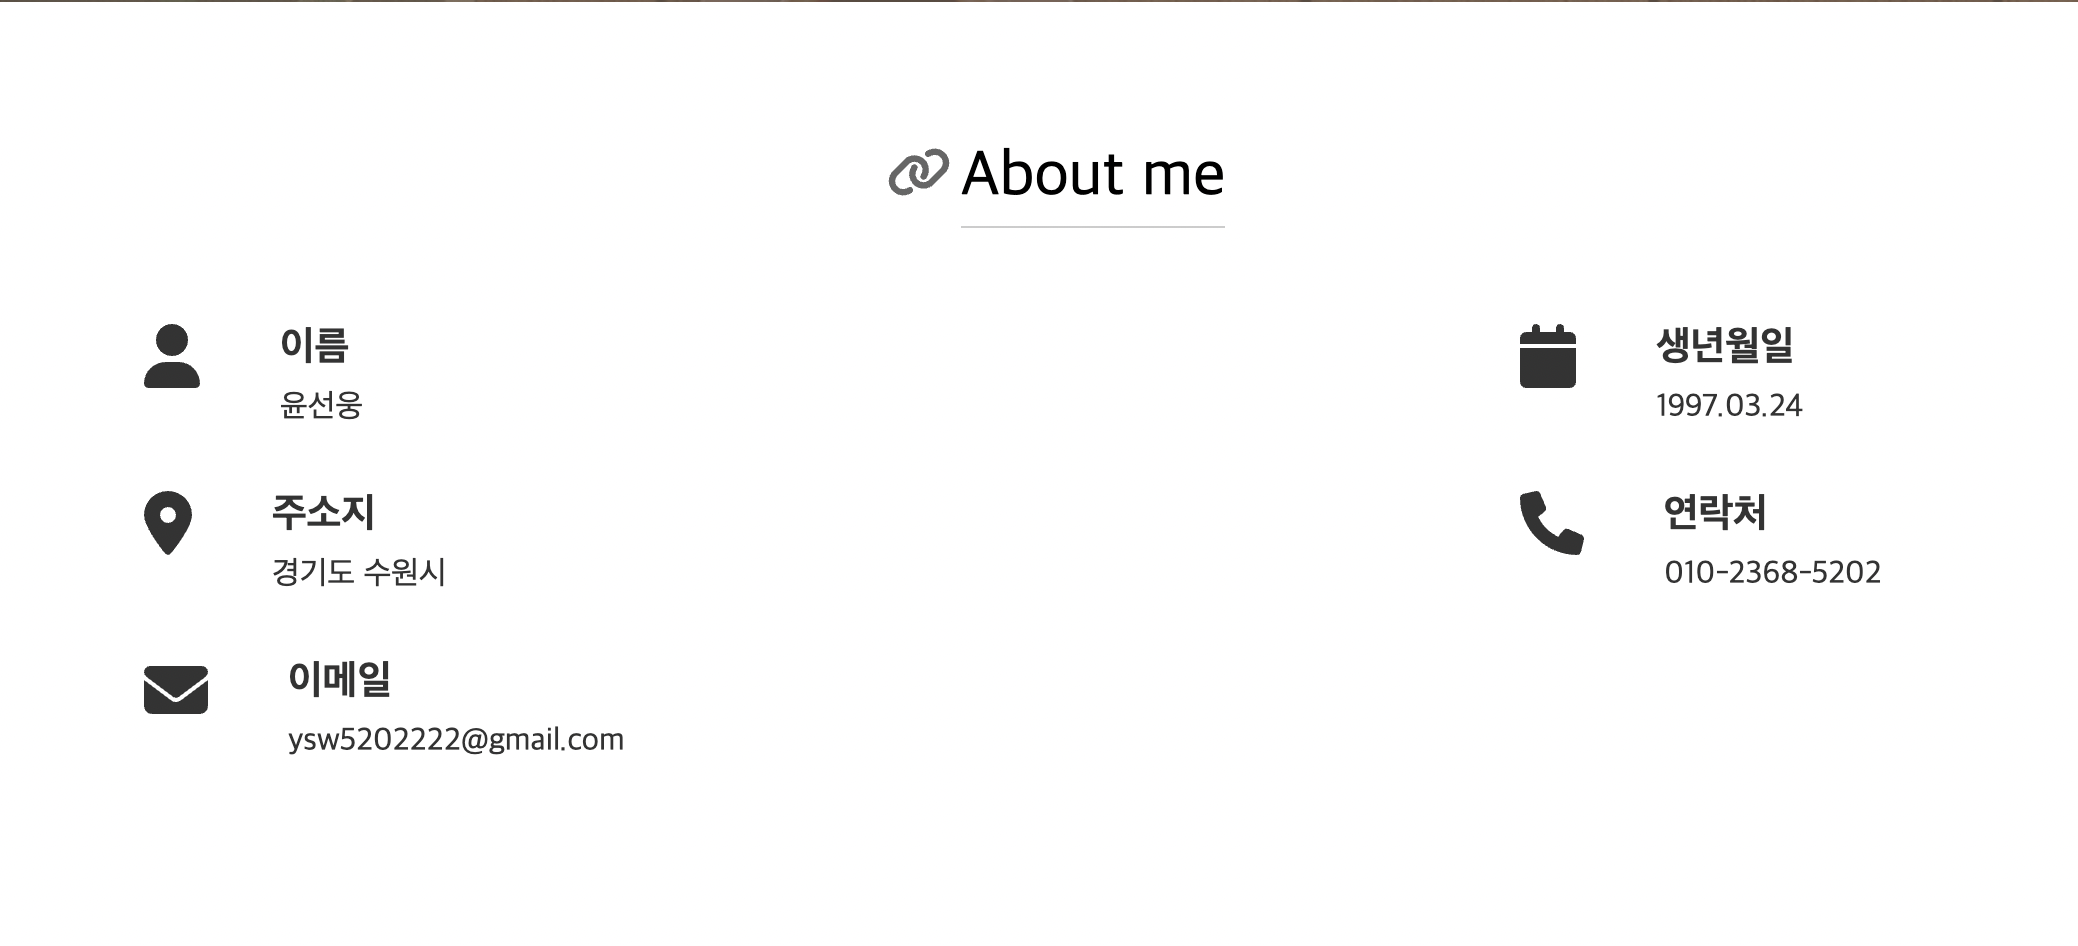
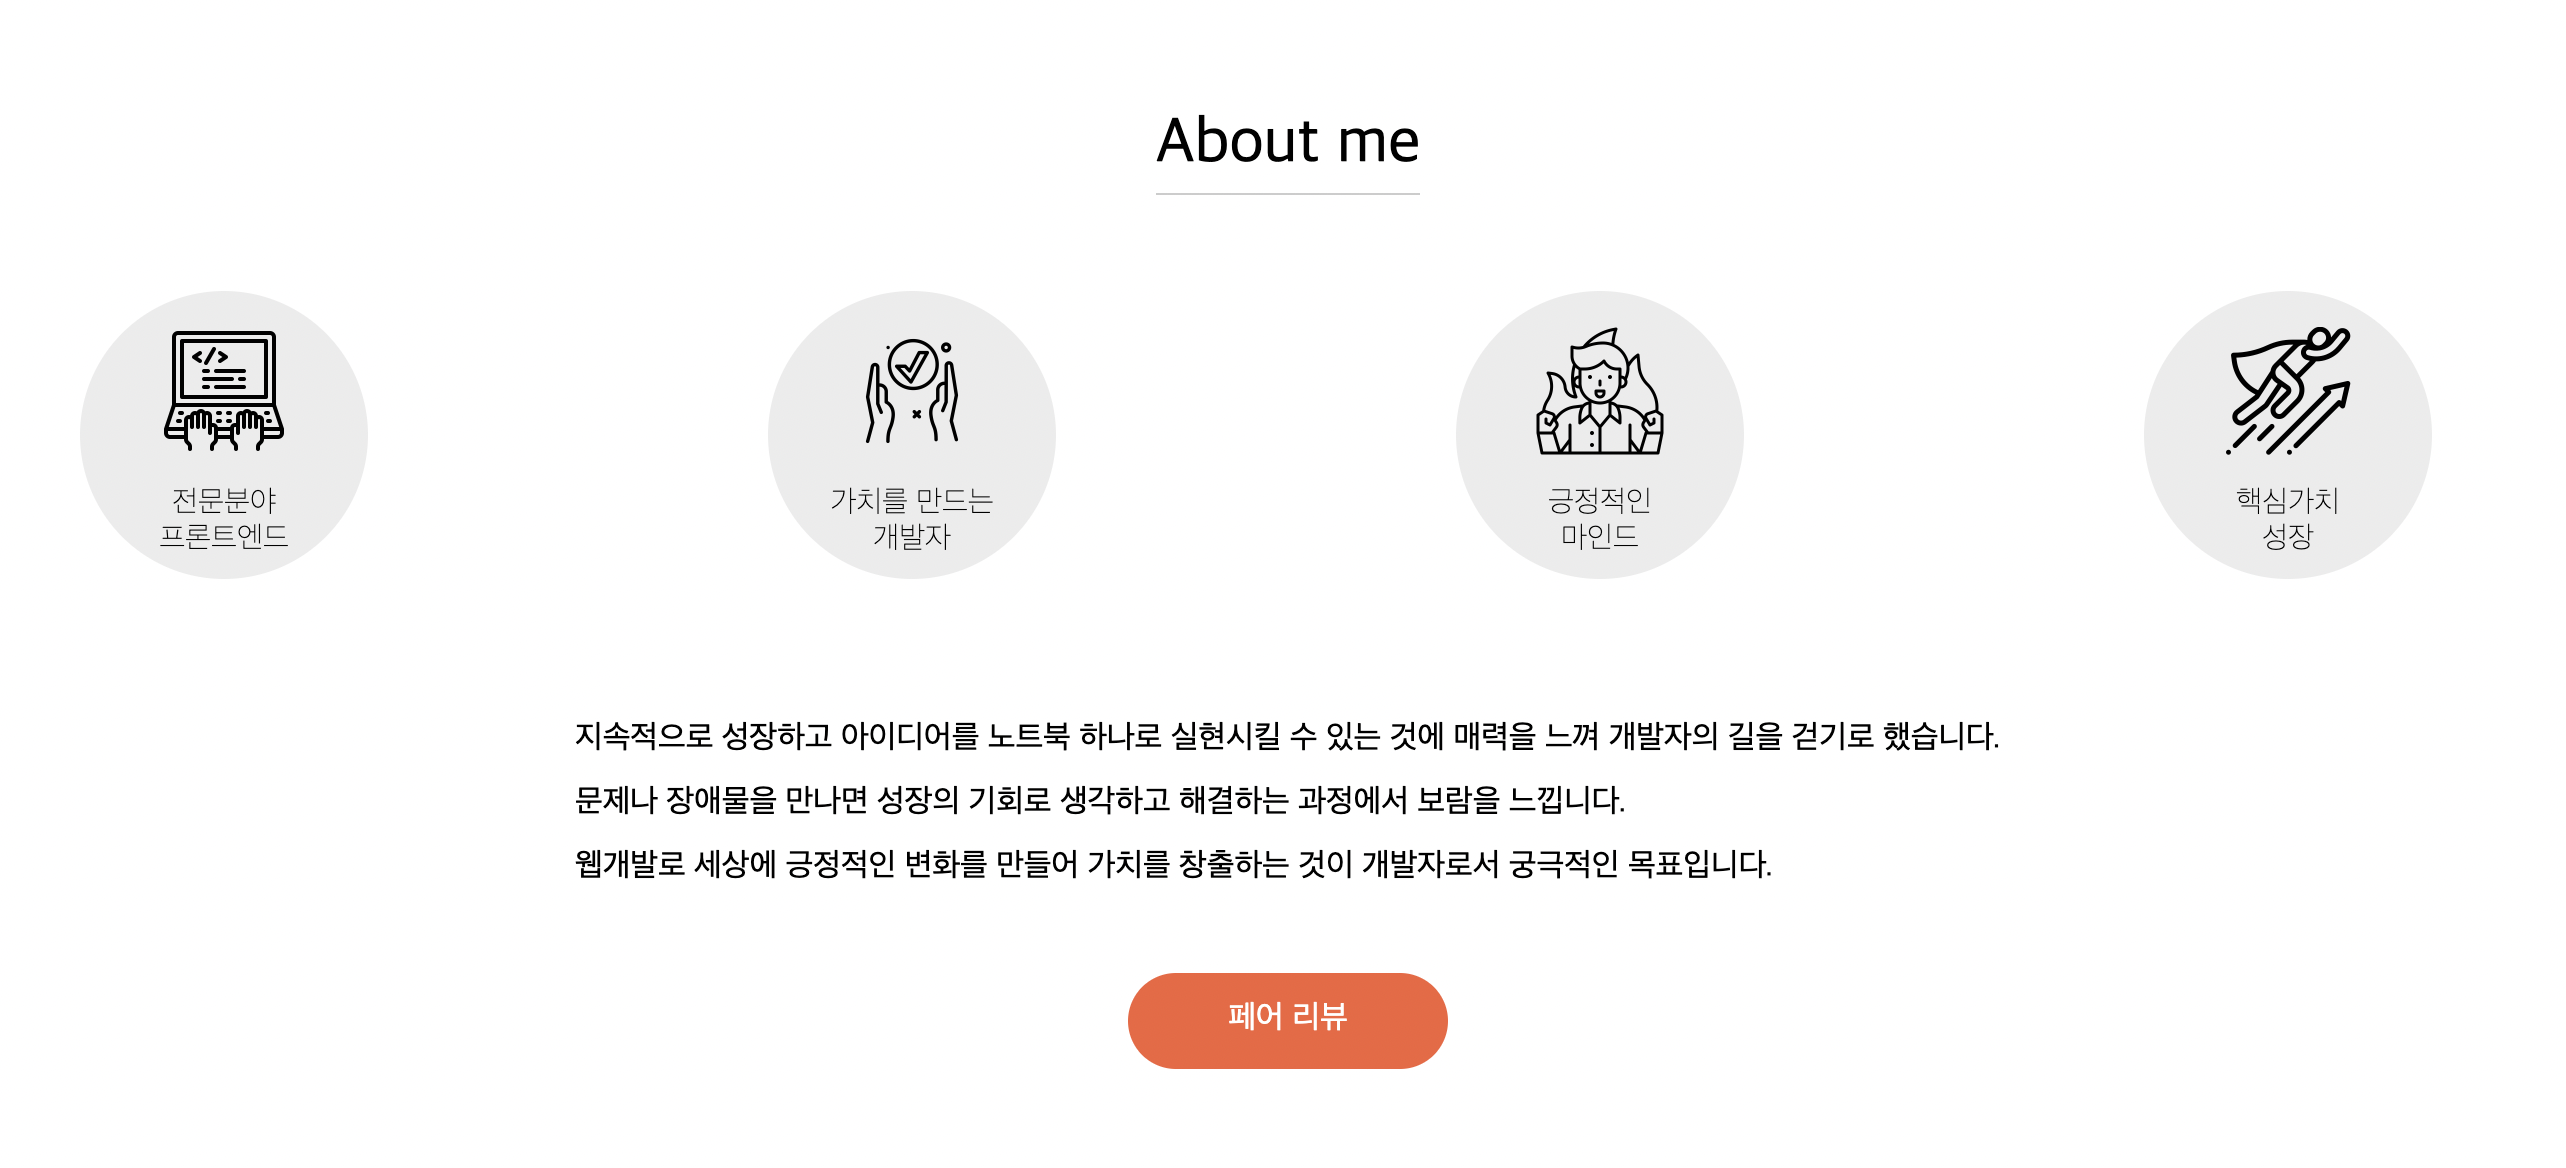
90완

diff --git a/src/pages/MyInfo.js b/src/pages/MyInfo.js
@@ -3,24 +3,19 @@ import { Link } from "react-router-dom";
 import styled from "styled-components";
 import Tags from "../components/Tags";
 import Title from "../components/Title";
-const Article = styled.article`
-  display: block;
-`;
-const Container = styled.div`
+const Container = styled.article`
   width: 100%;
   padding: 4rem 2rem;
   margin: 0 auto;
 `;
-
-const Contents = styled.div`
+const Content = styled.div`
   display: flex;
-  flex-flow: row;
-  flex-wrap: wrap;
-  justify-content: space-between;
+  flex-direction: column;
+  align-items: center;
   a {
     color: white;
     text-decoration: none;
-    width: 50%;
+    width: 10rem;
     padding: 0.8rem;
     height: 3rem;
     margin: 5px auto;
@@ -32,33 +27,79 @@ const Contents = styled.div`
     font-weight: 400;
     background-color: rgb(244, 97, 58);
     cursor: pointer;
-  }
-  @media (max-width: 650px) {
-    display: flex;
-    flex-direction: column;
-    align-content: center;
+    :hover{
+      transform: scale(1.03);
+      transition: 0.2s;
+    }
   }
 `;
+const ImgDiv = styled.div`
+  display: flex;
+  flex-direction: row;
+  width: 100%;
+  justify-content: space-around;
+  margin-bottom: 2rem;
+  @media (max-width: 900px) {
+    flex-flow: row wrap;
+    align-items: center;
+  }
+`;
+const Circle = styled.div`
+  width: 9rem;
+  height: 9rem;
+  text-align: center;
+  border-radius: 50%;
+  background-color: rgba(65, 65, 65, 0.1);
+  padding: 1.1rem;
+  margin: 0 2rem 2rem 0;
+`;
+const Img = styled.img`
+  width: 4rem;
+  margin: 0 0 10px;
+  align-self: center;
+`;
+const ImgText = styled.div`
+  font-size: 15px;
+  font-weight: 200;
+`;
+const Text = styled.div`
+  line-height: 2;
+  margin-bottom: 2rem;
+`;
 const MyInfo = forwardRef((props, ref) => {
-  const info = [
-    { img: "user", lable: "이름", value: "윤선웅" },
-    { img: "calinder", lable: "생년월일", value: "1997.03.24" },
-    { img: "pin", lable: "주소지", value: "경기도 수원시" },
-    { img: "phone", lable: "연락처", value: "010-2368-5202" },
-    { img: "email", lable: "이메일", value: "ysw5202222@gmail.com" },
+  const images = [
+    { src: "/img/intro1.png", label1: "전문분야", label2: "프론트엔드" },
+    { src: "/img/intro2.png", label1: "가치를 만드는", label2: "개발자" },
+    { src: "/img/intro3.png", label1: "긍정적인", label2: "마인드" },
+    { src: "/img/intro4.png", label1: "핵심가치", label2: "성장" },
   ];
+
   return (
-    <Article ref={ref}>
-      <Container>
-        <Title name={"About me"} />
-        <Contents>
-          {info.map((el, idx) => (
-            <Tags key={idx} img={el.img} lable={el.lable} value={el.value} />
+    <Container ref={ref}>
+      <Title name={"About me"} isWhite={false} />
+      <Content>
+        <ImgDiv>
+          {images.map((el, idx) => (
+            <Circle>
+              <Img key={idx} src={el.src} />
+              <ImgText>{el.label1}</ImgText>
+              <ImgText>{el.label2}</ImgText>
+            </Circle>
           ))}
-          <Link to="/aboutme">Read More →</Link>
-        </Contents>
-      </Container>
-    </Article>
+        </ImgDiv>
+        <Text>
+          지속적으로 성장하고 아이디어를 노트북 하나로 실현시킬 수 있는 것에
+          매력을 느껴 개발자의 길을 걷기로 했습니다.
+          <br />
+          문제나 장애물을 만나면 성장의 기회로 생각하고 해결하는 과정에서 보람을
+          느낍니다.
+          <br />
+          웹개발로 세상에 긍정적인 변화를 만들어 가치를 창출하는 것이 개발자로서
+          궁극적인 목표입니다.
+        </Text>
+        <Link to={"pairreview"}>페어 리뷰</Link>
+      </Content>
+    </Container>
   );
 });
 

diff --git a/src/Introduce/PairReview.js b/src/Introduce/PairReview.js
@@ -1,15 +1,108 @@
 import { forwardRef } from "react";
+import { Link } from "react-router-dom";
 import styled from "styled-components";
 import Title from "../components/Title";
 const Container = styled.article`
   width: 100%;
-  padding: 4rem 2rem;
+  padding: 4rem 10%;
   margin: 0 auto;
+  text-align: center;
+  a {
+    color: white;
+    text-decoration: none;
+    width: 10rem;
+    padding: 0.8rem;
+    height: 3rem;
+    margin: 5rem 0;
+    max-width: 14rem;
+    border: none;
+    border-radius: 10rem;
+    font-size: 1rem;
+    text-align: center;
+    font-weight: 400;
+    background-color: rgb(28,128,159);
+    cursor: pointer;
+    :hover{
+      transform: scale(1.03);
+      transition: 0.2s;
+    }
+  }
 `;
+const Label = styled.div`
+  font-size: 24px;
+  font-weight: 600;
+`
+const Div = styled.div`
+line-height: 2;
+margin-bottom: 2rem;
+`
+const HrLine = styled.hr`
+  width: 3.25rem;
+  height: 0;
+  margin: 1.5rem auto;
+  border: none;
+  border-top: 0.2rem solid rgb(244,97,58);
+`;
+const ImgContainer = styled.div`
+  display: flex;
+  flex-flow: column wrap;
+`
+const Img = styled.img`
+  margin-bottom: 5rem;
+  border: 2px solid rgb(244,97,58);
+  object-fit: scale-down;
+  width: 100%;
+`
+const GoBackDiv = styled.div`
+  a {
+    position: fixed;
+    top: 10px;
+    right: 30px;
+    color: white;
+    text-decoration: none;
+    width: 6rem;
+    padding: 0.8rem;
+    height: 3rem;
+    margin: 5rem 0;
+    max-width: 14rem;
+    border: none;
+    border-radius: 10rem;
+    font-size: 1rem;
+    text-align: center;
+    font-weight: 400;
+    background-color: rgb(28,128,159);
+    cursor: pointer;
+    :hover{
+      transform: scale(1.03);
+      transition: 0.2s;
+    }
+  }
+`
 const PairReview = forwardRef((props, ref) => {
+  const images = ['/img/pair/pair1.png','/img/pair/pair2.png','/img/pair/pair3.png','/img/pair/pair4.png','/img/pair/pair5.png','/img/pair/pair6.png','/img/pair/pair7.png','/img/pair/pair8.png','/img/pair/pair9.png','/img/pair/pair10.png','/img/pair/pair11.png','/img/pair/pair12.png','/img/pair/pair13.png','/img/pair/pair14.png']
   return (
     <Container>
+      <GoBackDiv>
+      <Link to="/">Go Back</Link>
+      </GoBackDiv>
       <Title name={"Pair Review"} isWhite={false} />
+      <Label>
+      Pair Review란?
+      </Label>
+      <Div>
+        <br />
+        두 명 이상이 함께 프로그래밍 과제를 수행하는 것을 '페어 프로그래밍'이라고 합니다.
+        <br />
+        페어 프로그래밍을 마친 후 페어에게 남기는 리뷰입니다.
+      </Div>
+      <HrLine />
+      <Div>
+        이제까지 만난 페어분들이 저에 대해 남겨준 평가입니다.
+      </Div>
+      <ImgContainer>
+      {images.map((el, idx)=> <Img key={idx} src={el} />)}
+      </ImgContainer>
+      <Link to="/">Go Back</Link>
     </Container>
   );
 });

diff --git a/src/pages/Contact.js b/src/pages/Contact.js
@@ -1,13 +1,14 @@
 import React, { forwardRef, useEffect, useState } from "react";
 import styled from "styled-components";
 import Title from "../components/Title";
+import Tags from "../components/Tags";
 import { init, send } from "emailjs-com";
 const Article = styled.article`
   display: block;
 `;
 const Container = styled.form`
   width: 100%;
-  padding: 4rem 2rem;
+  padding: 0 2rem 4rem;
   margin: 0 auto;
   background-color: white;
   width: 40%;
@@ -44,11 +45,25 @@ const Button = styled.button`
     transform: scale(1.02);
   }
 `;
+const InfoDiv = styled.div`
+  display: flex;
+  flex-direction: row;
+  padding: 0 10%;
+  @media (max-width: 992px) {
+    flex-direction: column;
+    align-items: center;
+  }
+`
 const Contact = forwardRef((props, ref) => {
   const [userName, setUserName] = useState("");
   const [phone, setPhone] = useState("");
   const [email, setEmail] = useState("");
   const [message, setMessage] = useState("");
+  const info = [
+    { img: "user", lable: "이름", value: "윤선웅" },
+    { img: "phone", lable: "연락처", value: "010-2368-5202" },
+    { img: "email", lable: "이메일", value: "ysw5202222@gmail.com" },
+  ];
   useEffect(() => {}, []);
   const sendEmail = (e) => {
     init("4od_0SAjGzmq8Hbui");
@@ -67,8 +82,13 @@ const Contact = forwardRef((props, ref) => {
   };
   return (
     <Article>
-      <Container ref={ref} onSubmit={sendEmail}>
         <Title name={"Contact"} isWhite={false} />
+        <InfoDiv>
+        {info.map((el, idx) => (
+            <Tags key={idx} img={el.img} lable={el.lable} value={el.value} />
+          ))}
+          </InfoDiv>
+      <Container ref={ref} onSubmit={sendEmail}>
         <Label>* 이름</Label>
         <Input
           type="text"
@@ -84,7 +104,7 @@ const Contact = forwardRef((props, ref) => {
         <Label>* Email</Label>
         <Input
           type="text"
-          placeholder="이메일을 입력해주세요."
+          placeholder="사용자 이메일을 입력해주세요."
           onChange={(e) => setEmail(e.target.value)}
         />
         <Label>Message</Label>

diff --git a/src/App.js b/src/App.js
@@ -1,6 +1,6 @@
 import Home from "./pages/Home";
-import Introduce from "./pages/Introduce";
 import { BrowserRouter as Router, Route, Routes } from "react-router-dom";
+import PairReview from "./Introduce/PairReview";
 
 function App() {
   return (
@@ -8,7 +8,7 @@ function App() {
     <Router>
       <Routes>
         <Route exact path="/" element={<Home />} />
-        <Route path="/aboutme" element={<Introduce />} />
+        <Route path="/pairReview" element={<PairReview />} />
       </Routes>
       </Router>
     </>

diff --git a/src/components/Project.js b/src/components/Project.js
@@ -9,7 +9,7 @@ const Container = styled.div`
   border-radius: 1rem;
   margin: 0 auto 2rem;
   width: 80%;
-  box-shadow: 5px 7px 10px black;
+  box-shadow: 5px 5px 10px rgba(0,0,0, 0.5);
 `;
 const Title = styled.div`
   padding-bottom: 0.5rem;

diff --git a/src/pages/Projects.js b/src/pages/Projects.js
@@ -10,7 +10,7 @@ const Container = styled.div`
   width: 100%;
   padding: 4rem 2rem;
   margin: 0 auto;
-  background-color: rgb(46, 142, 255);
+  background-color: rgb(28,128,159);
 `;
 
 const Projects = forwardRef((props, ref) => {
